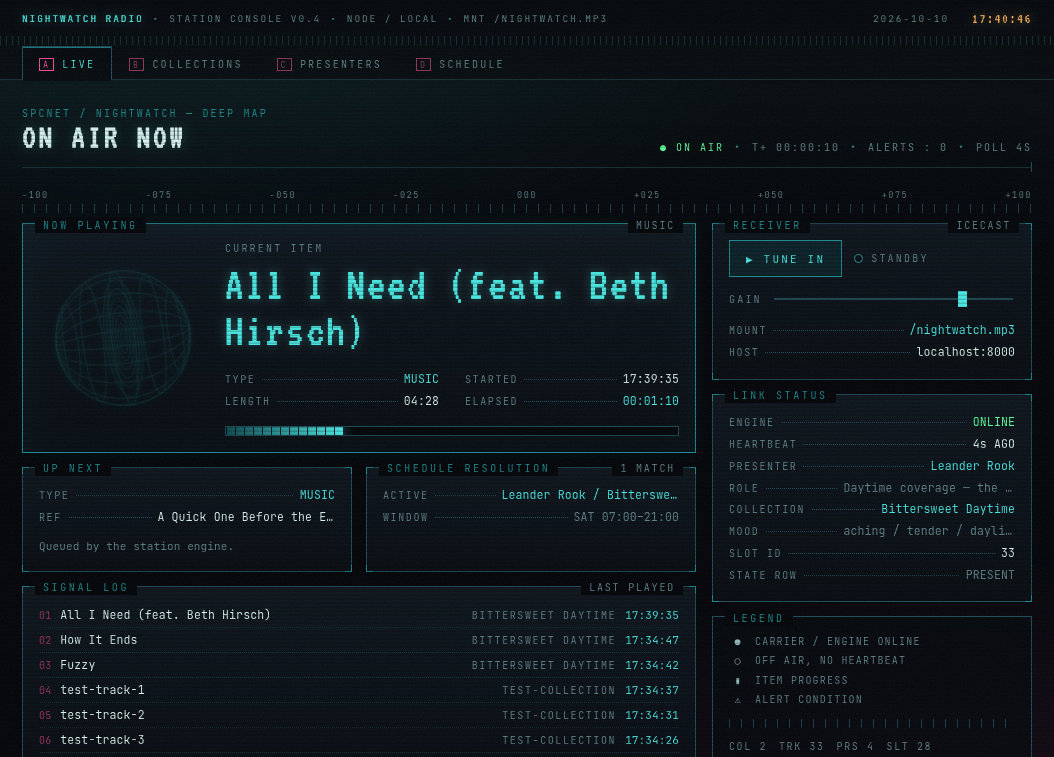
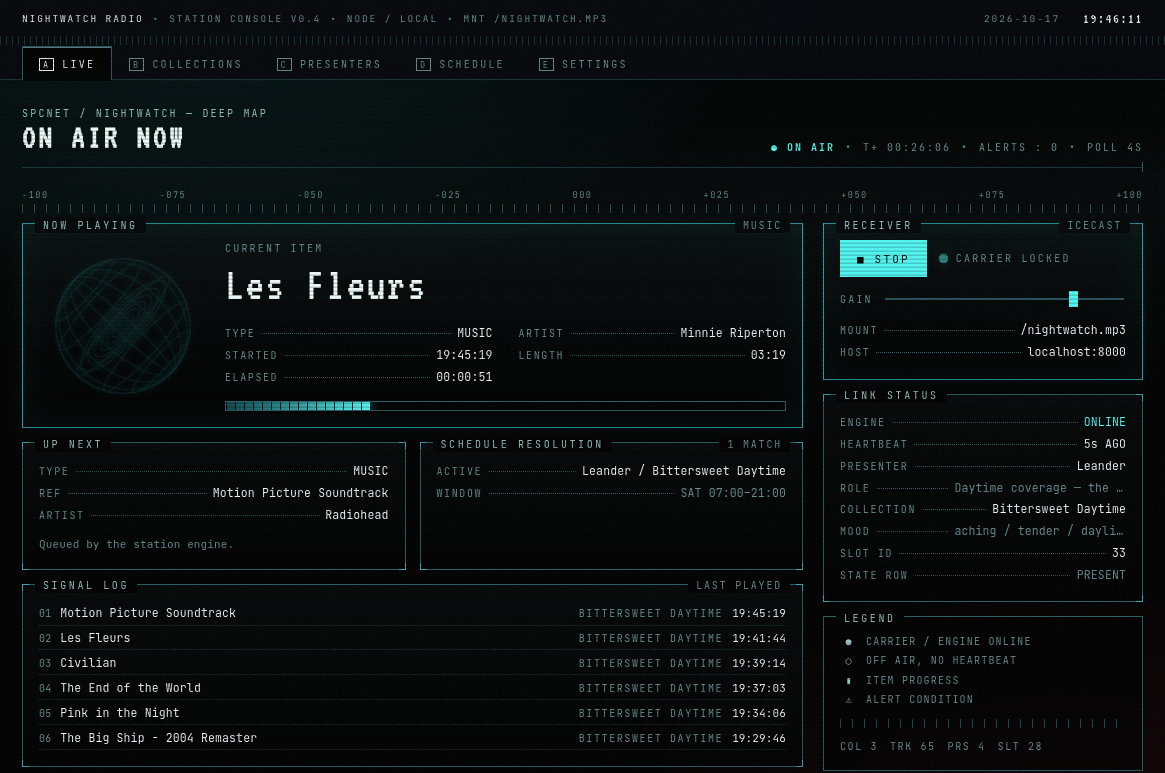
docs: shorten README, update screenshot
Rewritten around the settled framing: a personal internet radio
station for your own music. Cuts the old "How I built this" narrative
down to a short AI-usage note, and updates the console screenshot to
match the new design.

apps/web/README.md updated to match: four personas now, and seeding
only fires once on a genuinely empty table.

diff --git a/README.md b/README.md
@@ -1,187 +1,76 @@
 # Nightwatch Radio
 
-A personal internet radio station that runs itself. Four AI presenters,
-Cassius Thorne, Thaddeus Crake, Lucan Wormhald, and Leander Rook, take
-shifts through the day, introducing songs, reading the news and weather,
-handing off between collections, and signing off. The scripts are written
-live by Claude and spoken by ElevenLabs. Music crossfades under LiquidSoap,
-there's an ambient static/crackle effect layered over everything, and the
-whole thing streams out over Icecast to a CRT-styled console I built for it.
+Nightwatch Radio is a personal internet radio station that plays your music. AI
+presenters take shifts: introducing songs, reading news and weather, and handing
+off between collections. You tune their names, personality, and voices. Scripts
+are written live by Claude and spoken by ElevenLabs.
 
 ![Nightwatch Radio station console](screenshot.png)
 
-## Architecture
+## Running it
 
-```
-liquidsoap/           playback engine (LiquidSoap scripts)
-  radio.liq              pull (music) + push (AI speech) graph, crossfade,
-                          dual output (local monitor + Icecast)
-  static_fx.liq           ambient static/fuzz effect, layered on the
-                          combined output
-
-apps/engine/           the station's "brain," a long-running Node process
-  src/scheduler/          resolves who's on air from the DB, rolls the
-                          7-moment-type trigger rules, pre-renders ahead
-                          of air time, writes live status
-  src/generation/         Claude (script) + ElevenLabs Flash (voice)
-  src/providers/          mock news/weather, swappable for real APIs later
-  src/server.ts            HTTP: /next-music (LiquidSoap pulls from this),
-                          /trigger/<type>, /schedule/now, /health
-
-apps/web/               SvelteKit station console (CRT/retro UI)
-  routes/live              on-air HUD, embeds the Icecast stream
-  routes/collections       playlist CRUD + mp3 upload (ffprobe duration,
-                          ID3 tags, sha256 dedupe)
-  routes/presenters        persona CRUD (name, system prompt, voice ID)
-  routes/schedule           weekly / date-override schedule_slots CRUD
-
-packages/db/             shared SQLite schema (node:sqlite), used by both
-                        apps/engine and apps/web. The database is the only
-                        source of truth for presenters and schedule; the
-                        engine re-reads it fresh every scheduler tick, so
-                        edits made in the UI take effect on the next clip
-
-audio/library/<name>/   uploaded mp3s, one directory per collection
-audio/generated/        cached TTS clips (logged in generated_clips)
-data/airadio.sqlite3    the database
-```
-
-Here's how a line actually gets on air. The engine decides a moment should
-happen (hourly, on a collection change, or a probabilistic roll between
-songs) and writes a `generated_clips` row. It asks Claude for a script in
-the active presenter's voice, asks ElevenLabs Flash to render it, and once
-the file's ready, pushes it into LiquidSoap's `inject` queue over telnet.
-
-LiquidSoap combines that push-based speech queue with a pull-based music
-source (it calls back into `/next-music` whenever it needs a new track)
-through `fallback(track_sensitive=false, ...)`. Crossfade is applied to each
-source individually, before they're combined, not after on the combined
-result. That ordering matters: there's a known LiquidSoap issue where
-crossfading breaks once a `request.queue` item has played through a
-`fallback`, and doing it per-source before combining is the workaround.
-`track_sensitive=false` is what lets a pushed clip land at the next track
-boundary without interrupting a crossfade already in progress. The static
-effect wraps the combined output last, so it has no idea whether it's
-riding over music or speech. It doesn't need to care.
-
-## How it works
-
-### Dev environment
-
-A Nix flake (`flake.nix`) pulls in LiquidSoap, Icecast, Node 22, pnpm,
-sqlite, and ffmpeg. `nix develop` is the only prerequisite. No manual
-installs.
-
-### Database
-
-SQLite through Node's built-in `node:sqlite`, so there's nothing native to
-compile. The core tables are `presenters`, `collections`, `tracks`,
-`schedule_slots`, and `generated_clips` (the TTS cache, with a status
-lifecycle of `pending → rendering → ready → used`/`failed`). `station_state`
-is a singleton row the live UI polls. `news_items` and `weather_snapshots`
-are mock data behind a `NewsProvider`/`WeatherProvider` interface, so wiring
-up a real API later is a swap, not a rewrite.
-
-### Scheduling
-
-`schedule_slots` rows are either `weekly` (day of week + time range) or
-`date_override` (a specific date, which wins over weekly). A 5-second
-scheduler tick resolves who's on air, notices presenter or collection
-changes, and fires one of seven moment types: song intro, collection
-changeover, top-of-hour open, news, weather, sign-off, and filler
-one-liners. Priority order is sign-off, then changeover, then the
-hour/news/weather triad, then the probabilistic intro/filler rolls. A
-higher-priority deterministic trigger always preempts a lower one, so clips
-never stack. Everything is pre-rendered ahead of its delivery deadline, so
-there's no dead air waiting on an API call.
-
-### AI
-
-Claude writes every script from a per-presenter system prompt plus a
-trigger-specific template (time, collection and song metadata, or raw
-news/weather data to relay more or less verbatim). ElevenLabs Flash renders
-the audio. Each presenter's voice was picked by hand in the ElevenLabs
-dashboard and the ID is stored in `presenters.elevenlabs_voice_id`.
-
-### No streaming infra beyond Icecast
-
-This runs on one machine for one listener. LiquidSoap's output stage is
-additive, so bolting on a remote relay later wouldn't take much, but it
-isn't there now.
-
-## Usage
+Dependencies: LiquidSoap, Icecast, Node 22+, pnpm, sqlite, ffmpeg.
 
 ```sh
-nix develop                              # everything below assumes this shell
-
-cp .env.example .env                     # fill in ANTHROPIC_API_KEY,
-                                         # ELEVENLABS_API_KEY, ICECAST_SOURCE_PASSWORD
+nix develop   # or install the dependencies above yourself
+cp .env.example .env
 pnpm install
-
-scripts/start-icecast.sh &               # local Icecast, config is generated
-liquidsoap liquidsoap/radio.liq &        # playback engine
-pnpm --filter @airadio/engine start &    # scheduler + AI pipeline
-pnpm --filter @airadio/web dev           # station console, http://localhost:5173
+scripts/start-all.sh
 ```
 
-Tune in at `http://localhost:8000/nightwatch.mp3`, or open `/live` in the
-console, which embeds the stream directly. Upload music and edit
-presenters/schedule from `/collections`, `/presenters`, and `/schedule`.
-Changes take effect on the next scheduler tick, no restart needed.
+Stream: `http://localhost:8000/nightwatch.mp3`. Console: `http://localhost:5173`,
+with `/collections`, `/presenters`, `/schedule`, and `/settings` for editing
+the station while it runs. Changes apply on the next scheduler tick.
 
-## How I built this
+## Architecture
 
-I built this conversationally with Claude Code, start to finish, and the
-process is worth writing down because it shaped the result almost as much
-as any single design decision did.
+- **`liquidsoap/`**: the playback graph. Crossfades music pulled from the
+  engine with speech pushed in from it, layers an ambient static effect
+  over the combined output, and streams the result to Icecast.
+- **`apps/engine/`**: a long-running Node process. A scheduler resolves
+  who's on air from the database and fires scripted "moments" (song
+  intros, news, weather, hour opens, sign-offs); Claude writes each
+  script, ElevenLabs renders it, and clips are pre-rendered ahead of their
+  air time so there's never dead air waiting on an API call.
+- **`apps/web/`**: the SvelteKit station console. A live on-air view, CRUD
+  for collections (with mp3 upload), presenters, and the weekly schedule,
+  and station settings (country, for news/weather).
+- **`packages/db/`**: a shared SQLite schema (`node:sqlite`, nothing
+  native to compile) that both apps read from. The database is the only
+  source of truth: the engine re-reads it every tick, so edits made in
+  the UI take effect immediately.
 
-The initial ask was broad: AI DJs, a melancholic resistance-radio vibe,
-LiquidSoap, a schedule, an upload interface. That's too broad to start
-coding against, so the first pass was planning mode: real decisions made
-before any file existed. SvelteKit or a native GPUI app. Mock or real
-news/weather for v1. How many presenters to design up front. Whether the
-static effect should be a transition-only sting or something ambient. Each
-of those went through a proposal with a recommendation attached rather than
-a guess, backed by actual research into how LiquidSoap's request queue and
-crossfade semantics behave (not just what seemed plausible).
+News comes from Google News RSS and weather from Open-Meteo, both free and
+keyless, scoped to the country set in `/settings` (default UK). There's no
+streaming infra beyond Icecast (this is built for one machine, one
+listener), though LiquidSoap's output stage would make a remote relay easy
+to add.
 
-The UI came from references, not a brief. I dropped eleven images into
-`ui-reference-images/`: a deep-space tracking HUD, a DOS-era terminal, a
-cassette J-card, old weather broadcast graphics, with no further
-explanation. Those got read as images, turned into a design language
-(numbers-station, listening-post, cassette-left-in-a-drawer), mapped onto
-actual UI regions, and checked against me before `apps/web` got scaffolded.
+## Testing
 
-Verification was empirical, not assumed. Claims about audio behavior got
-checked by capturing the real Icecast stream with `ffmpeg` and running it
-through `astats`, `silencedetect`, and `volumedetect`, because an agent
-can't listen to a stream, so "it compiles" never counted as "it works."
-That process caught a real bug: the static effect's internal clock was
-drifting behind wall-clock time under load, found by noticing a measured
-gap exceeded its configured maximum, fixed by switching to real elapsed-time
-measurement instead of assuming a fixed tick duration. It also disproved a
-suspected one: a feared crossfade-after-queue-push regression that turned
-out not to be happening, confirmed by analyzing 24 crossfade events around
-live injections.
+`apps/engine/src/test/simulateDay.ts` drives the real scheduler through a full
+broadcast day compressed into a few seconds. The scheduler takes an injectable
+clock, and probabilistic triggers (song intros, filler clips) use a seeded PRNG,
+so every run is deterministic and assertable. Only the paid APIs (Claude,
+ElevenLabs) and LiquidSoap's telnet socket are stubbed; everything else,
+including SQLite, is real.
 
-Work went parallel once it was safe to. Phases ran sequentially up through
-the database schema (scaffolding, then the LiquidSoap baseline, then the
-schema), and only after that did the engine's AI pipeline and the SvelteKit
-UI get built at the same time by two background agents, both of which only
-depended on the now-stable schema, not on each other. Each got verified on
-its own terms: the engine against live stream capture, the UI against the
-reference images and an actual upload run end to end. The full scheduler
-followed the same pattern once presenters and schedule existed to resolve
-against, and it got proven against a simulated compressed broadcast day (27
-of 27 checks passing) plus live delivery of all seven moment types.
+The fixture is deliberately adversarial: four scheduled slots across the
+evening, including one with no actual handoff, plus decoy slots (a disabled slot
+at top priority, a weekly slot underneath the evening) to prove the resolver
+ignores what it should. Around twenty assertions cover slot resolution,
+hour-open → news → weather ordering, changeover clips, minimum gaps between
+segments, and trigger rates and cooldowns.
 
-Iteration stayed conversational after the architecture settled. Presenter
-voices got picked by generating in-character sample lines and auditioning
-them in ElevenLabs directly. Renames and a fourth, daytime-only presenter
-got added without re-planning anything. The static effect got redesigned
-twice off nothing but listening feedback: "sounds like rain," and later
-"crackle is sounding great." One schedule bug (only one of seven weekly
-day-rows had actually been updated after a UI edit) got caught by looking
-directly at the database instead of taking "it's working" at face value.
+## AI Usage
 
-PRs welcome.
+Built largely with Claude Code. I directed development throughout, and the
+architecture was designed collaboratively: the split between playback, engine
+and console, the database as single source of truth, and pre-rendering clips to
+avoid dead air. Claude wrote most of the implementation.
+
+Claude verified its own work two ways: running the simulated-day suite as a
+regression gate after each change, and capturing the Icecast stream for analysis
+with ffmpeg's astats, silencedetect and volumedetect, which caught a clock-drift
+bug in the static effect, among other things.
+

diff --git a/apps/web/README.md b/apps/web/README.md
@@ -35,9 +35,11 @@ pnpm --filter @airadio/web dev     # http://localhost:5173
 - Uploads are probed with `ffprobe` (duration + ID3 title/artist), sha256-
   deduped per collection, and stored with **absolute** `file_path`s — the same
   convention the engine hands to LiquidSoap.
-- `src/lib/server/seed.ts` seeds the three personas (Wren/Juno/Marlowe) and one
-  weekly slot per persona on first boot. Every step is idempotent per row, so it
-  is safe to race against the engine seeding the same tables. Importing loose
+- `src/lib/server/seed.ts` seeds the four personas (Cassius/Thaddeus/Lucan/
+  Leander) and one weekly slot per persona, but only on a genuinely empty
+  table — once any presenter exists, seeding never runs again, so renaming or
+  deleting one sticks. It's also safe to race against the engine seeding the
+  same tables. Importing loose
   files from `audio/library/` happens only when `collections` is completely
   empty, so deleting a collection in the UI doesn't resurrect it on restart.
 
